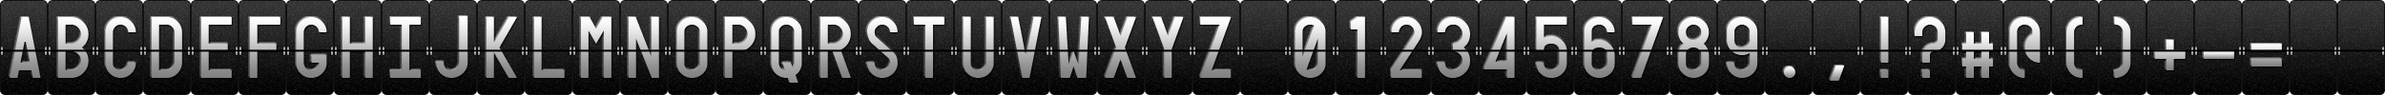
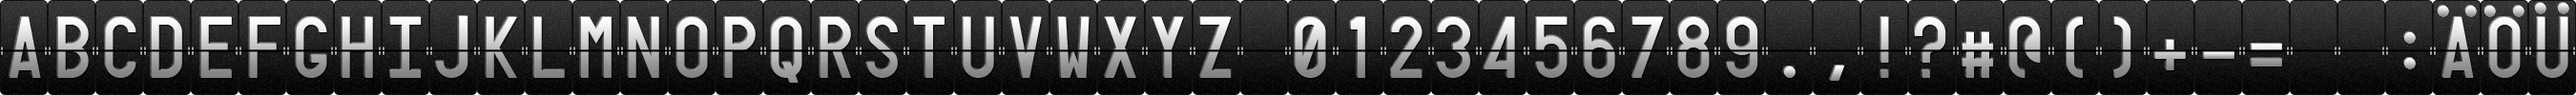
added accents

diff --git a/own.js b/own.js
@@ -8,15 +8,23 @@ const new_line = (name, hour, minute) => `
 `;
 
 const default_name = "Kein Block             ";
-const max_num_of_blocks = 4;
+const max_num_of_blocks = 5;
 let current_first_block = -1;
 let debug_time = 1602223013
 
 function create_line(name, hour, minute, old_name, old_hour, old_minute) {
     let template_html = new_line(name, hour, minute)
     var new_element = $(template_html).appendTo("#text-fields-container")
-    new_element.find(".name").splitFlap({ image: "flip-res/images/chars.png", textInit: old_name });
-    new_element.find(".time").splitFlap({ image: "flip-res/images/chars.png", textInit: old_hour + ":" + old_minute });
+    new_element.find(".name").splitFlap({
+        image: "flip-res/images/chars.png",
+        textInit: old_name,
+        charsMap: 'ABCDEFGHIJKLMNOPQRSTUVWXYZ 0123456789.,!?#@()+-=  :ÄÖÜ',
+    });
+    new_element.find(".time").splitFlap({
+        image: "flip-res/images/chars.png",
+        textInit: old_hour + ":" + old_minute,
+        charsMap: 'ABCDEFGHIJKLMNOPQRSTUVWXYZ 0123456789.,!?#@()+-=  :ÄÖÜ',
+    });
 }
 
 function get_time() {
